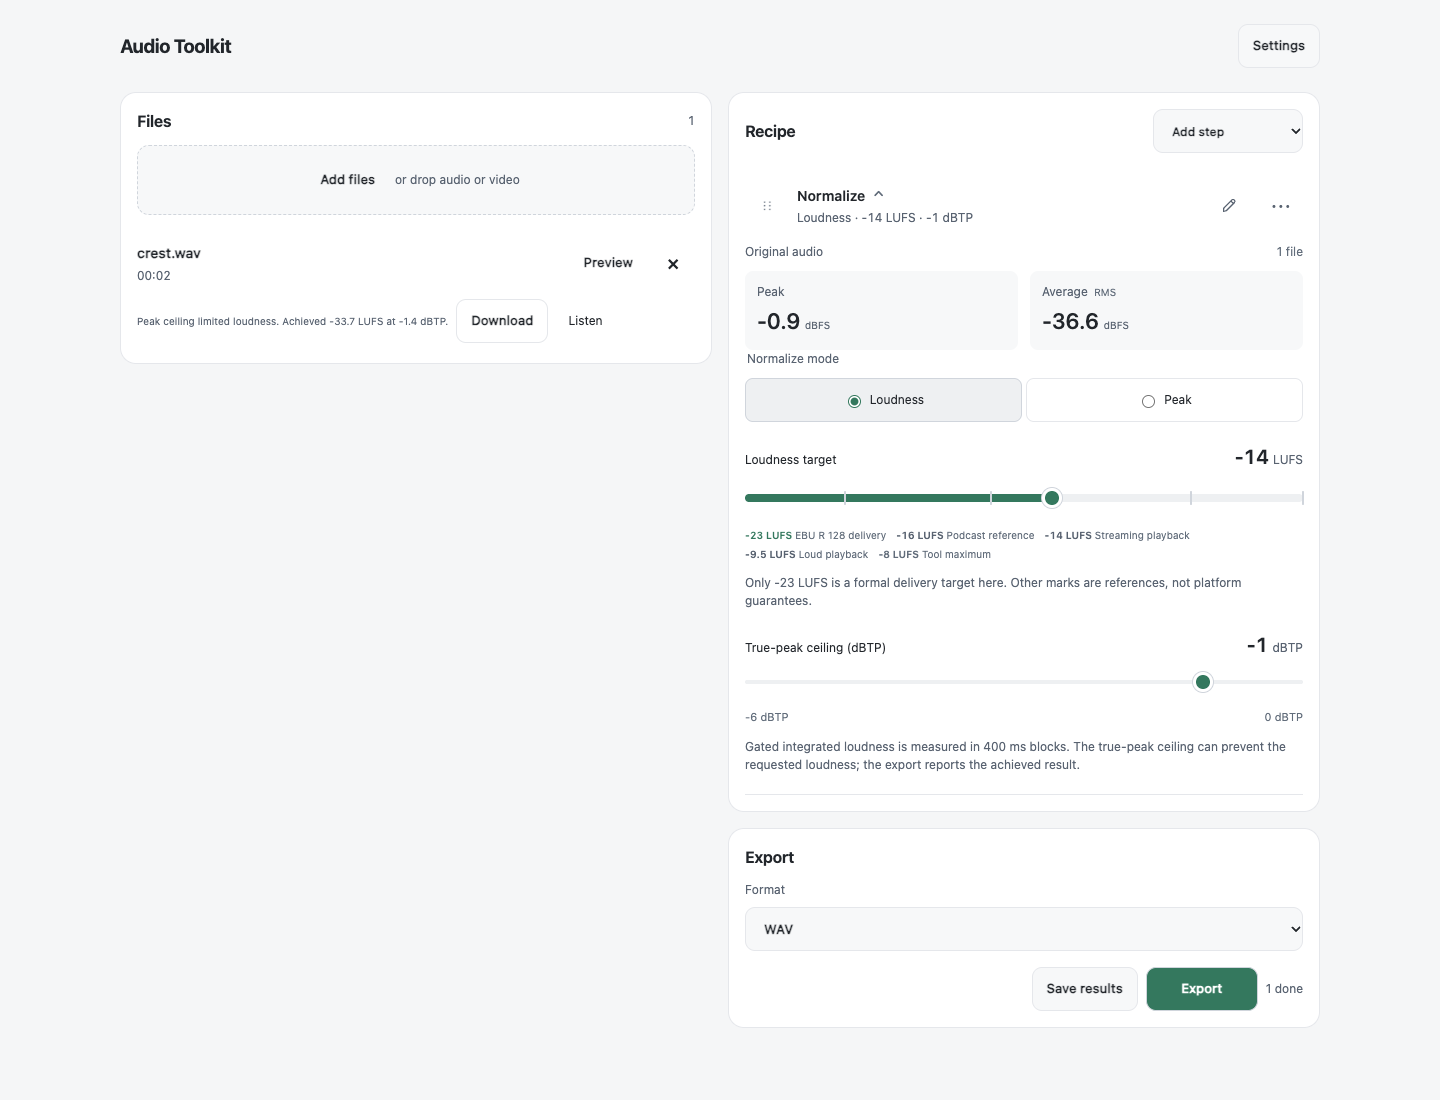
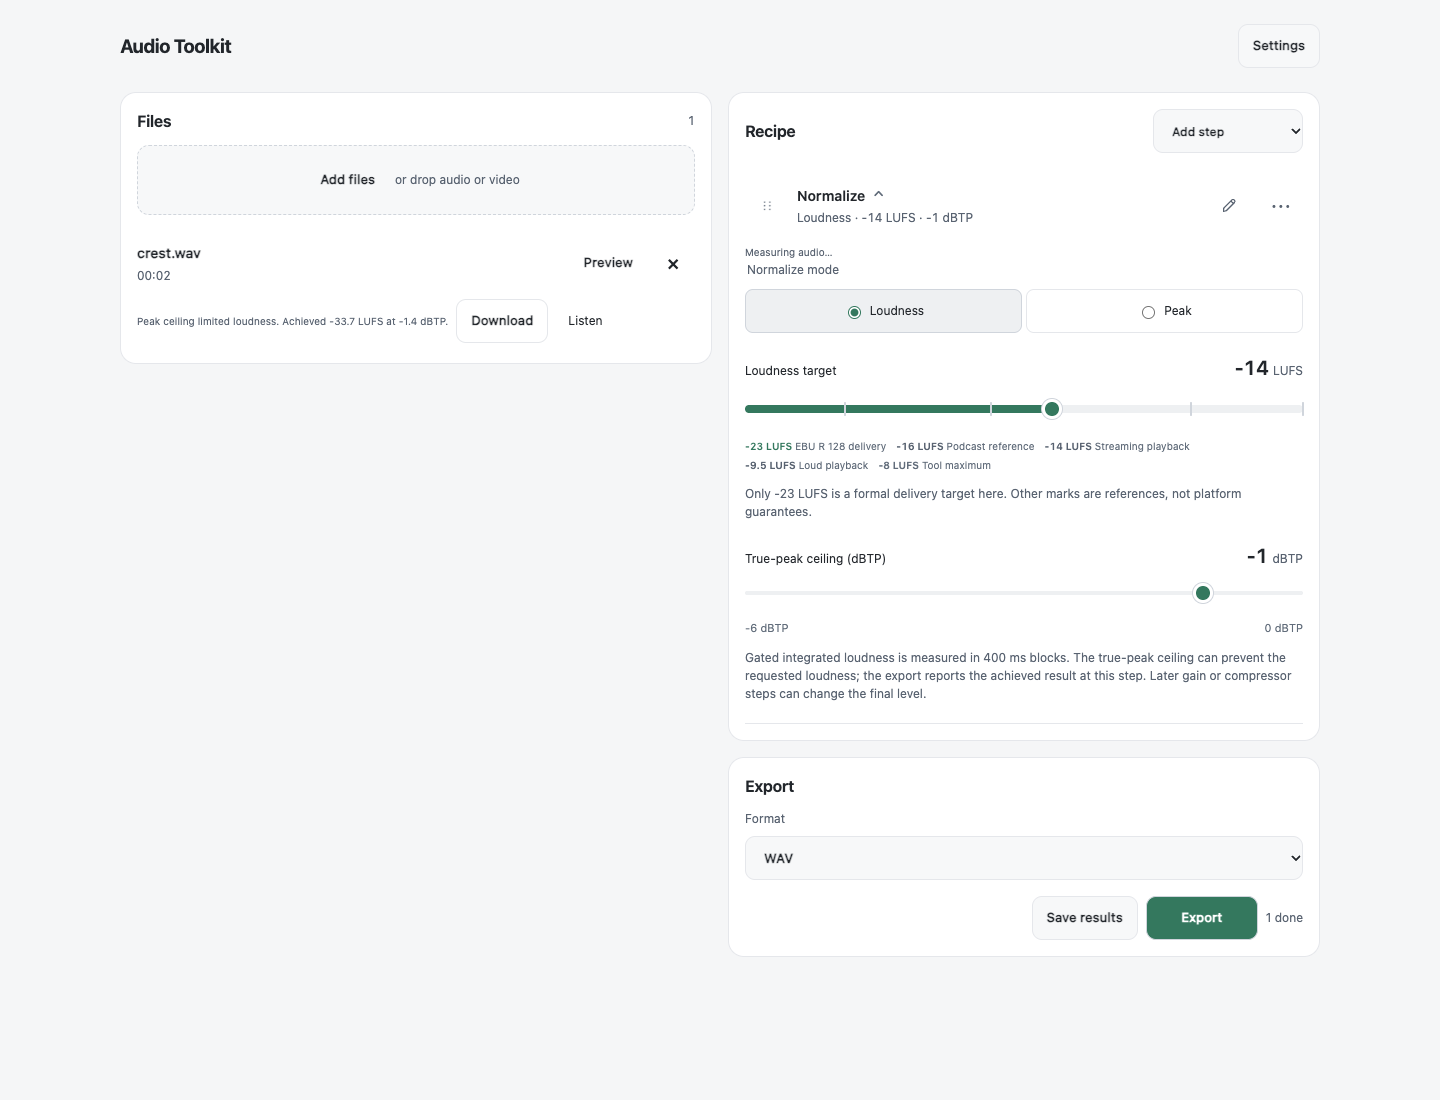
docs(sprint-24): record the ceiling review fix

diff --git a/docs/sprint-evidence/sprint-24/scenario-01.md b/docs/sprint-evidence/sprint-24/scenario-01.md
@@ -33,9 +33,15 @@ Tolerance: 0.5 dB for true peak and 0.5 LU for integrated loudness, except the 0
 
 Final runner output: `PASS: all independent loudness/true-peak tolerances met.`
 
+## Review fix
+
+The first implementation compared the source true peak with the ceiling before applying the requested gain. A quiet, high-crest source targeted upward therefore bypassed the ceiling. The reviewer reproduced it in Chrome: the transient fixture at -8 LUFS with a -0.3 dBTP ceiling reported `Loudness target reached. Achieved -8.0 LUFS.` and `Clipped samples.`
+
+The comparison now uses `guardedTruePeak * gainFactor`, so it judges the peak after gain. A regression test builds a quiet burst signal whose source peak is below the ceiling but whose requested gain would exceed it; it fails against the old comparison and passes now. The same Chrome flow at the fixed head reports `Peak ceiling limited loudness. Achieved -18.5 LUFS at -0.7 dBTP.` with no clipped samples. The full suite is 117 passing tests.
+
 ## Unit-level checks
 
-`tests/loudness.test.mjs` covers the 48 kHz coefficient fixture, a 1 kHz stereo -20 dBFS sine near -20 LUFS (two equal channels add 3 dB over mono), silence, 100 ms short audio, gated tone plus silence, the 4x intersample fixture, loudness-ceiling limiting, and peak mode reaching its sample-peak target.
+`tests/loudness.test.mjs` covers the 48 kHz coefficient fixture, a 1 kHz stereo -20 dBFS sine near -20 LUFS (two equal channels add 3 dB over mono), silence, 100 ms short audio, gated tone plus silence, the 4x intersample fixture, loudness-ceiling limiting including the gain-pushed quiet-source case, and peak mode reaching its sample-peak target.
 
 ## Gaps
 

diff --git a/docs/sprint-evidence/sprint-24/scenario-04.md b/docs/sprint-evidence/sprint-24/scenario-04.md
@@ -11,6 +11,8 @@ Date: 2026-10-31. Branch: `codex/sprint-24-loudness`.
 - High-crest export result: `Peak ceiling limited loudness. Achieved -33.7 LUFS at -1.4 dBTP.` The requested target was -14 LUFS at a -1 dBTP ceiling, so success is not claimed.
 - `pageErrors` is empty. The browser check JSON records the exact strings.
 
+After the review fix in `scenario-01.md`, the same high-crest flow at a -0.3 dBTP ceiling and -8 LUFS target reports `Peak ceiling limited loudness. Achieved -18.5 LUFS at -0.7 dBTP.` with no clipped samples. `scripts/sprint-24-check.mjs` also passes at the fixed head against `http://127.0.0.1:5185/audio-toolkit-v1/`.
+
 ## Evidence
 
 - `browser-check.json`

diff --git a/docs/sprint-evidence/sprint-24/scenario-03.md b/docs/sprint-evidence/sprint-24/scenario-03.md
@@ -11,4 +11,4 @@ Date: 2026-10-31. Branch: `codex/sprint-24-loudness`.
 - Planner behavior: a disabled or zero-amount compressor is a bypass and can still stream-copy; an enabled compressor changes the signal and reports "Compression requires re-encoding."
 - Browser Peak-mode evidence: `captures/02-peak-mode.png`.
 
-Commands: `npm test` (116 tests pass) includes the migration, mixed-field, bounds and planner cases.
+Commands: `npm test` (117 tests pass at the final head) includes the migration, mixed-field, bounds and planner cases.
